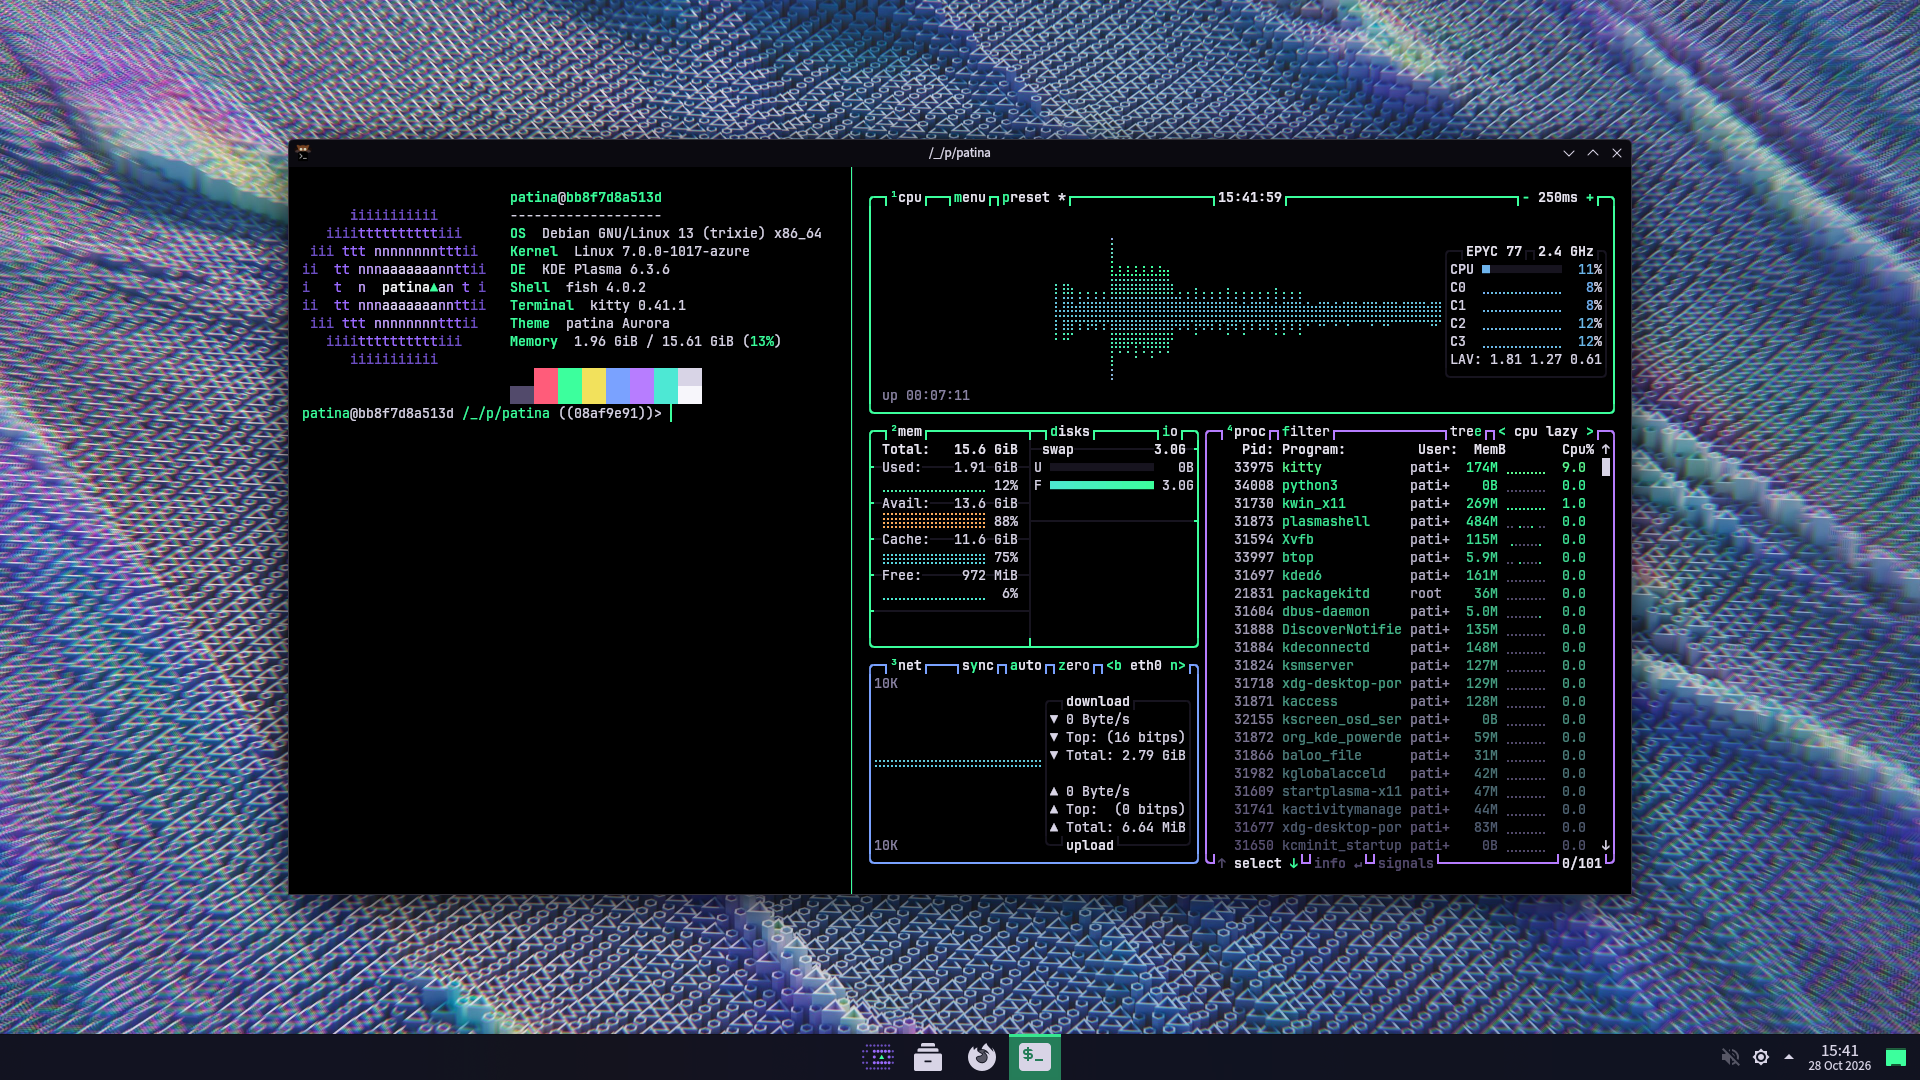
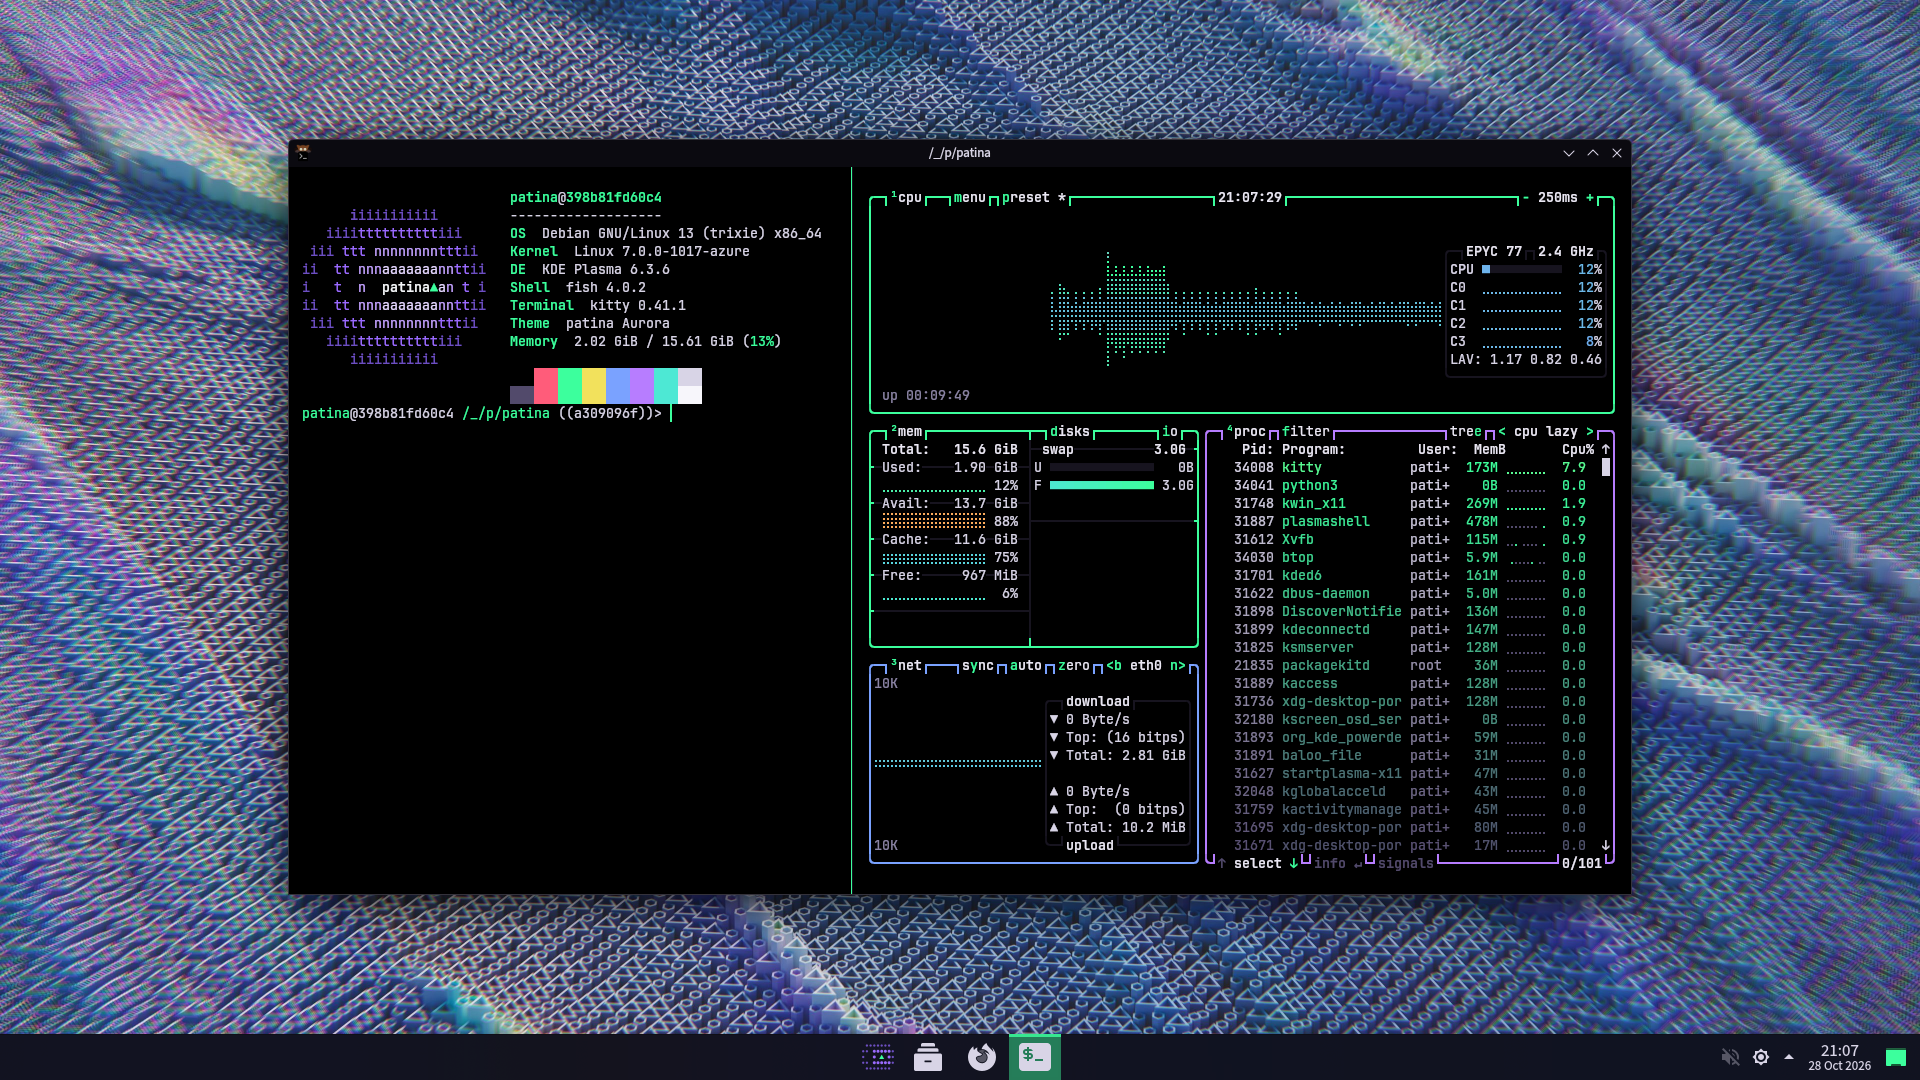
Refresh the README's screenshots from CI
The desktop workflow's run on this branch's head, with kortex 0.1.1
installed, shows the command palette as it now is: the darker glass
with its light rim, the faint selection on the agent's request and
kortex's green summit. The start menu and the desktop come from the
same run. The caption names what the new picture shows.

Claude-Session: https://claude.ai/code/session_013UKWhWPECqJSJiPo68mgRK

diff --git a/README.md b/README.md
@@ -60,10 +60,12 @@ see-through window, split in two: the fastfetch greeting beside btop.
 
 ![The patina desktop with the aurora theme](docs/screenshots/desktop-amd64.png)
 
-The command palette in the same session, in the middle of the empty desktop:
-`ai install photocraft`, kortex's answer through a real `opencode serve`, and the
-agent's request to run `patina install --bundles artcraft`, waiting for Allow once,
-Always or Deny. The model is kortex's scripted demo model, since CI has none to run.
+The command palette in the same session, in the middle of the empty desktop, dark
+glass with a light hairline round it: `ai install photocraft`, kortex's answer through
+a real `opencode serve` beside kortex's green ▲, and the agent's request to run
+`patina install --bundles artcraft`, selected with a faint green tint and waiting for
+Allow once, Always or Deny. The model is kortex's scripted demo model, since CI has
+none to run.
 
 ![KRunner with kortex in the middle of the desktop: the agent asks before it installs the artcraft bundle for PhotoCraft](docs/screenshots/command-palette-amd64.png)
 
